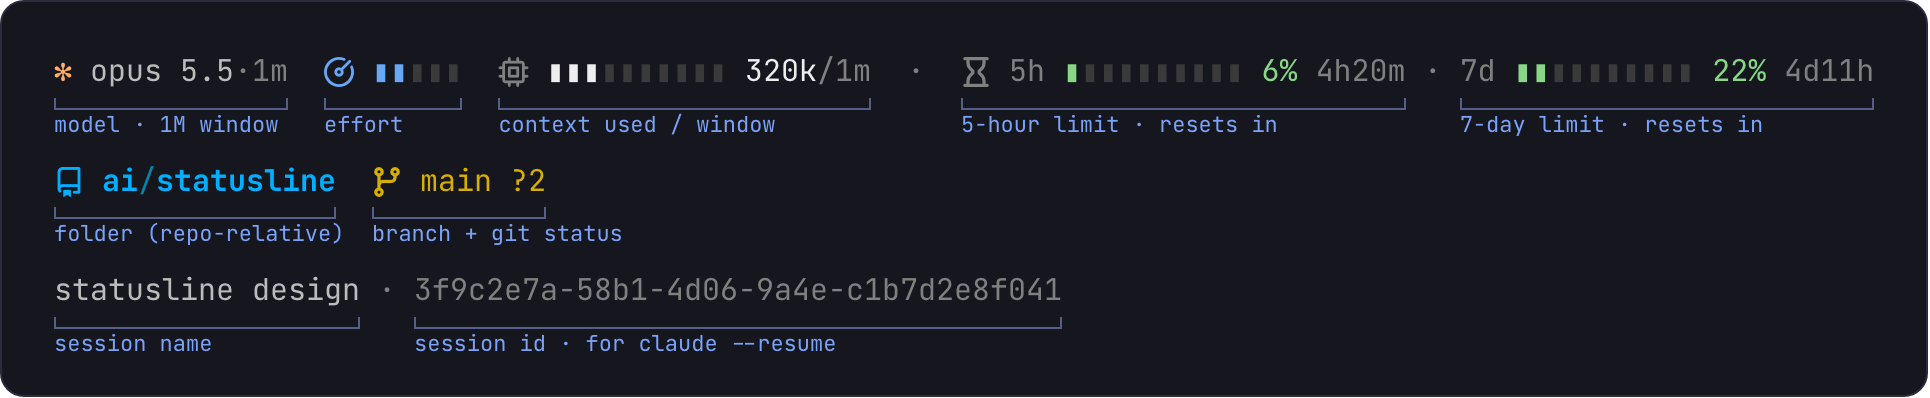
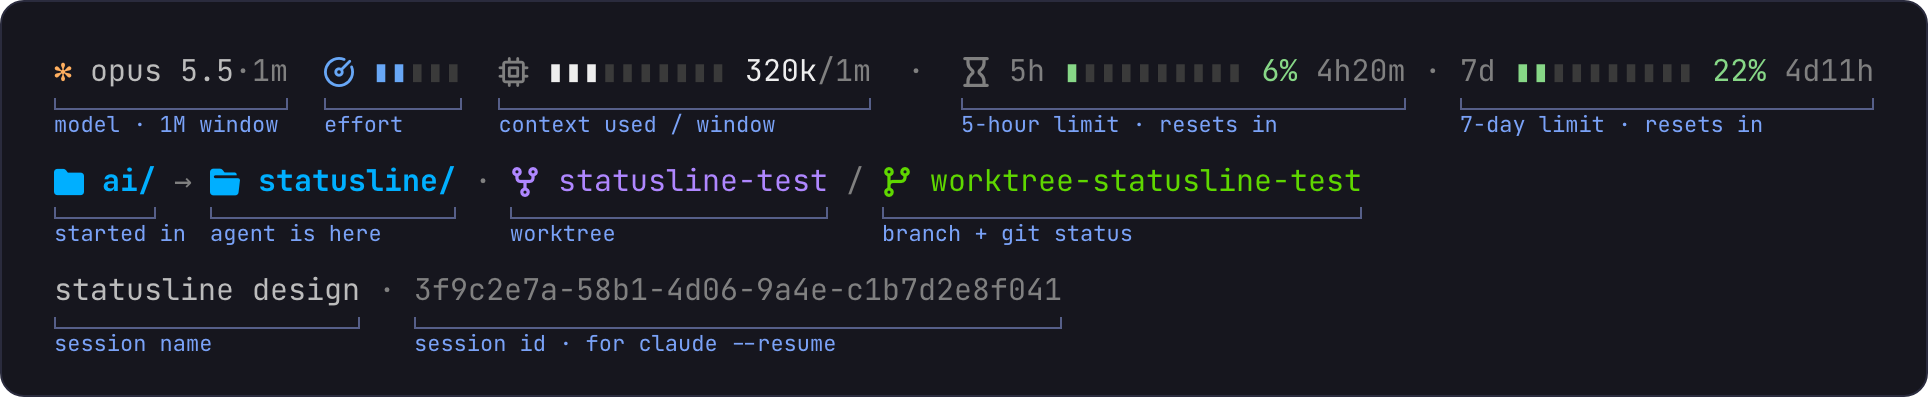
Show where the agent is and git worktrees on line 2
Line 2 now reads: session folder/ → agent folder/ · worktree / branch

- Session folder (where the session started) and, only when it differs,
  the folder the agent is in; both end in / with matching folder icons
- Git status follows the agent; inside a git worktree its name sits
  between the folders and the branch
- Long paths outside the project shorten to their last two folders
- Re-rendered terminal and segment screenshots

Changed region(s): [[0.0311, 0.4221, 0.715, 0.5126], [0.0311, 0.5427, 0.4352, 0.603], [0.4352, 0.5427, 0.715, 0.603]]

diff --git a/statusline/README.md b/statusline/README.md
@@ -18,11 +18,19 @@ A three-line [Claude Code](https://code.claude.com) statusline. Every color mean
   - Yellow when you're spending faster than time passes, or above 70%.
   - Red above 90%.
 
-**Line 2, the workspace.**
+**Line 2, the workspace:** `session folder/ → agent folder/ · worktree / branch`
 
-- **Folder**. Inside a git repo it's shown relative to the repo root. Long paths are shortened only when they don't fit.
-- **Git branch**, in p10k-style notation: `⇡` ahead, `⇣` behind, `+` staged, `!` modified, `?` untracked, `~` conflicts.
-  - Green when clean, yellow with changes, red on conflicts.
+- **Session folder** (closed folder icon): where the session started. Inside a git repo it's shown relative to the repo root. Long paths are shortened only when they don't fit.
+- **Agent folder** (open folder icon), after `→`, only when the agent is somewhere else: relative inside the project or worktree, a full `~` path outside it.
+- **Worktree** (purple), only inside a git worktree, then `/` and the branch.
+- **Git branch** in p10k-style notation: `⇡` ahead, `⇣` behind, `+` staged, `!` modified, `?` untracked, `~` conflicts.
+  - Green when clean, yellow with changes, red on conflicts. It always follows the agent.
+
+```text
+ ai/ ·  main !1                                       agent where the session started
+ ai/ →  statusline/ ·  main !1                       agent in a subfolder
+ ai/ →  statusline/ ·  feature-x /  feature-x !1   agent in a worktree subfolder
+```
 
 **Line 3, the session.** Its name (if you've named it), then the full session ID in dim grey, ready to copy for `claude --resume <id>`.
 
